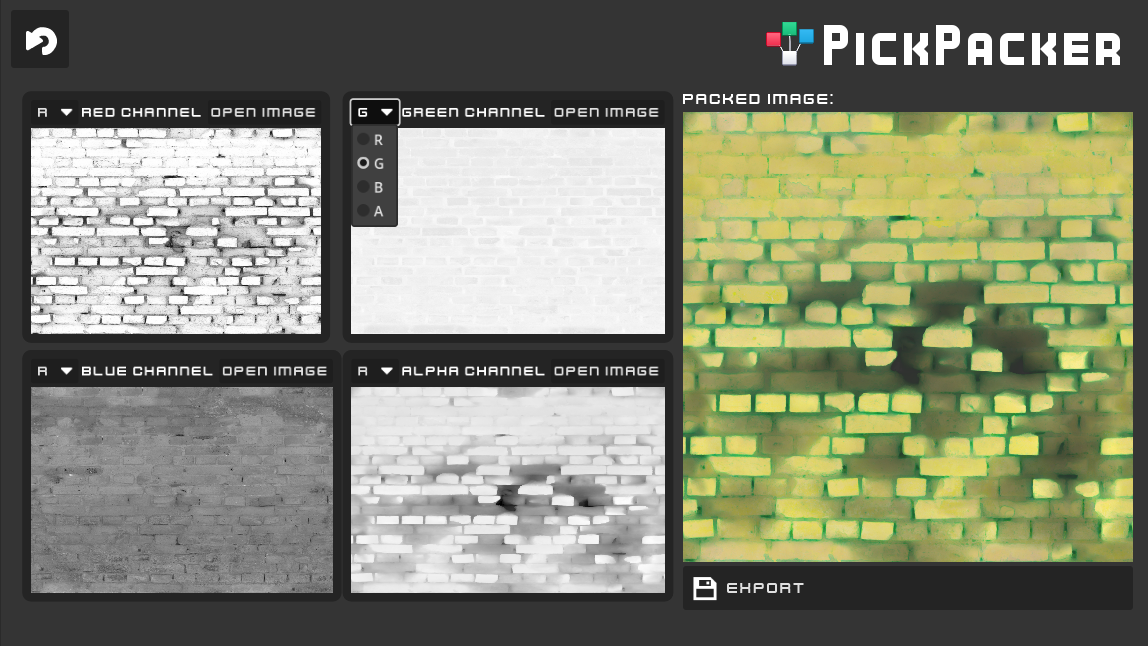
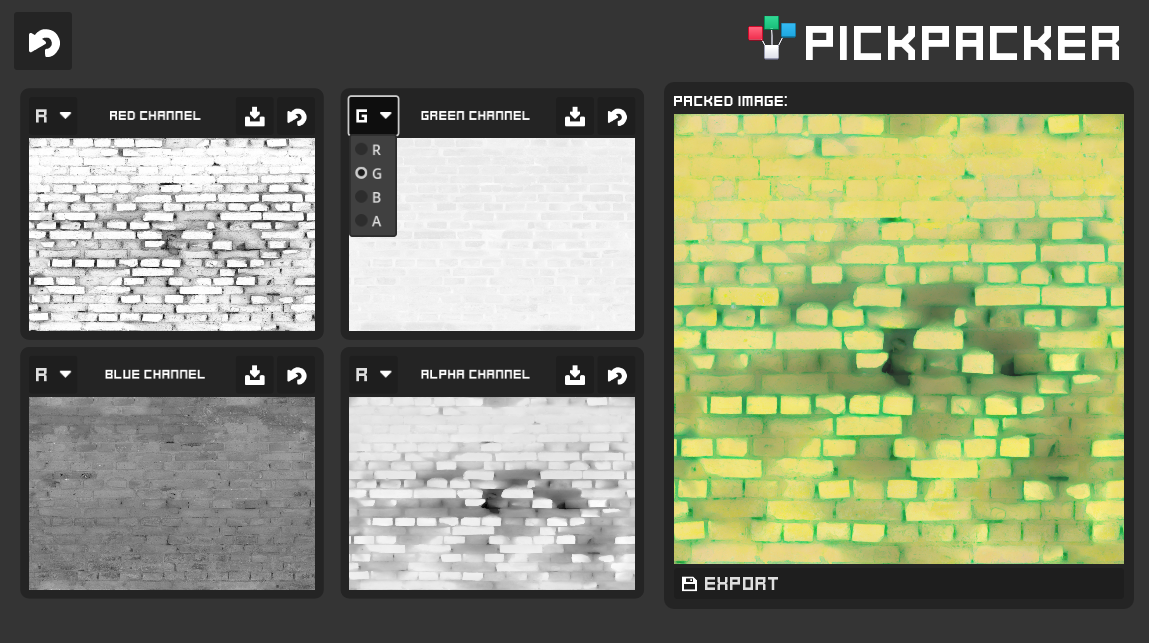
UI cleanup, fonts, new formats
Updated project version, UI on export window was cleaned up and a background panel was added, image size check bug is now fixed, readme is updated

diff --git a/README.md b/README.md
@@ -1,5 +1,5 @@
 <p align="center">
-  <img width="1280" alt="cover" src="https://github.com/MetallicPotato/pickpacker/blob/main/assets/PickPackerSplash.png">
+  <img width="1280" alt="cover" src="https://github.com/MetallicPotato/pickpacker/blob/main/assets/PickPackerSplash_2.png">
 </p>
 
 <h1 align="center">PickPacker</h1>
@@ -16,12 +16,12 @@ I've run across channel packing utilities before, but never found one that would
 ## What is channel packing?
 Channel packing is the act of storing black and white image data (such as a roughness/smoothness map, a metallic map, or a mask) in the color channels of an image, allowing you to store up to four black and white maps in one texture! This can help reduce the number of textures you need to store in your game, and improve your game's performance!
 
-## File Formats
-PickPacker currently supports PNG, JPG, SVG, and EXR imported files.
+## Formats
+PickPacker currently supports PNG, JPG, Bitmap (BMP), Scalable Vector Graphics (SVG), Targa (TGA), and WebP imported files.
 It currently only exports to PNG.
 
 ## Version
-Built on Godot 4.5.1
+Built on [Godot](https://godotengine.org/) 4.5.1
 
 ## Credits
 Uses fonts and images from [Kenney](https://kenney.nl/assets)
